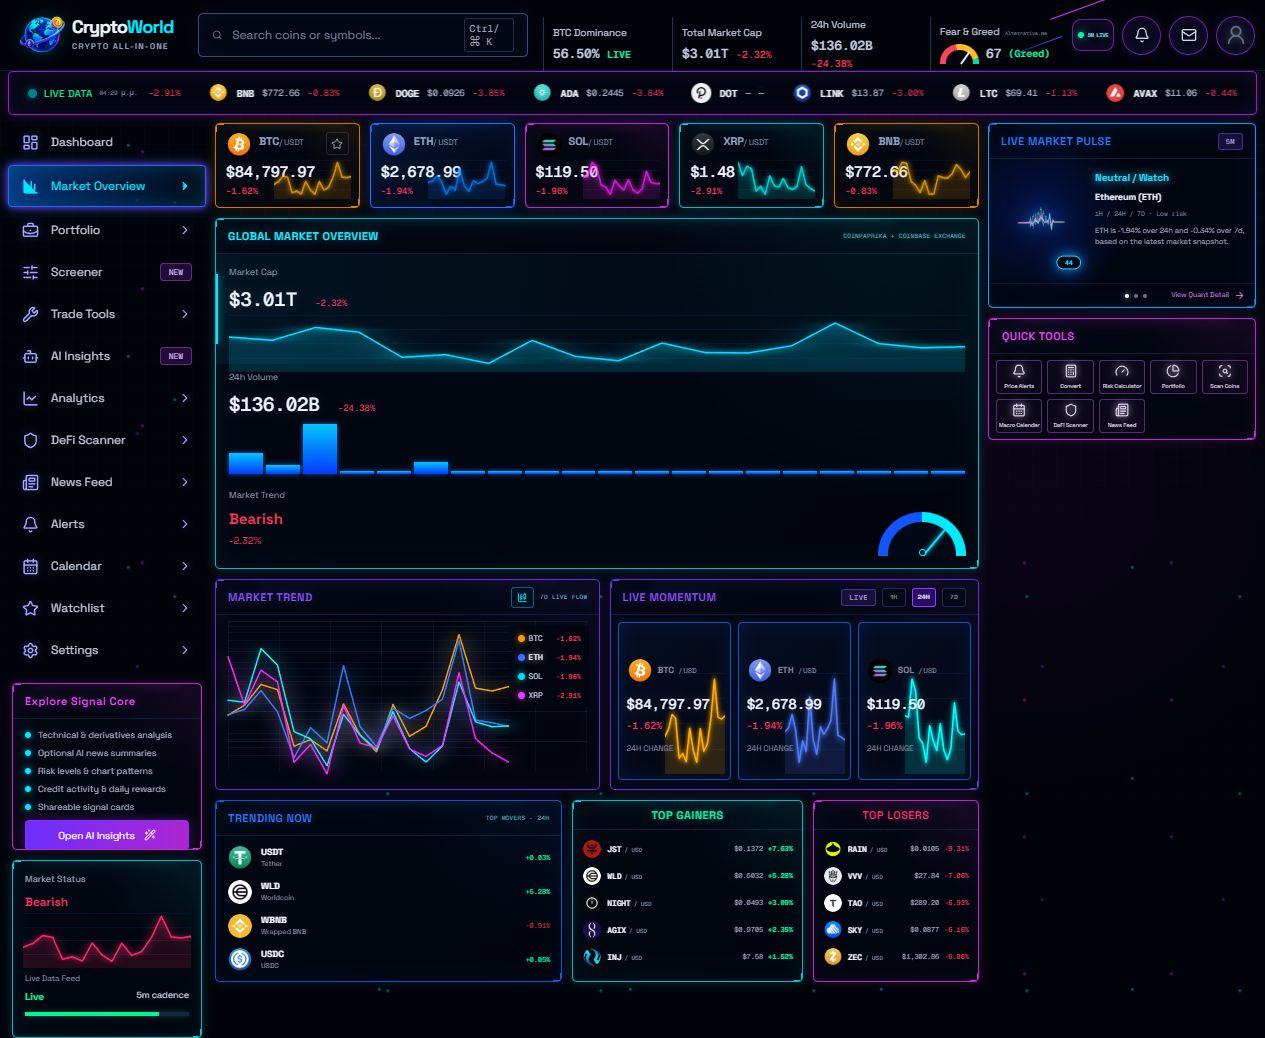
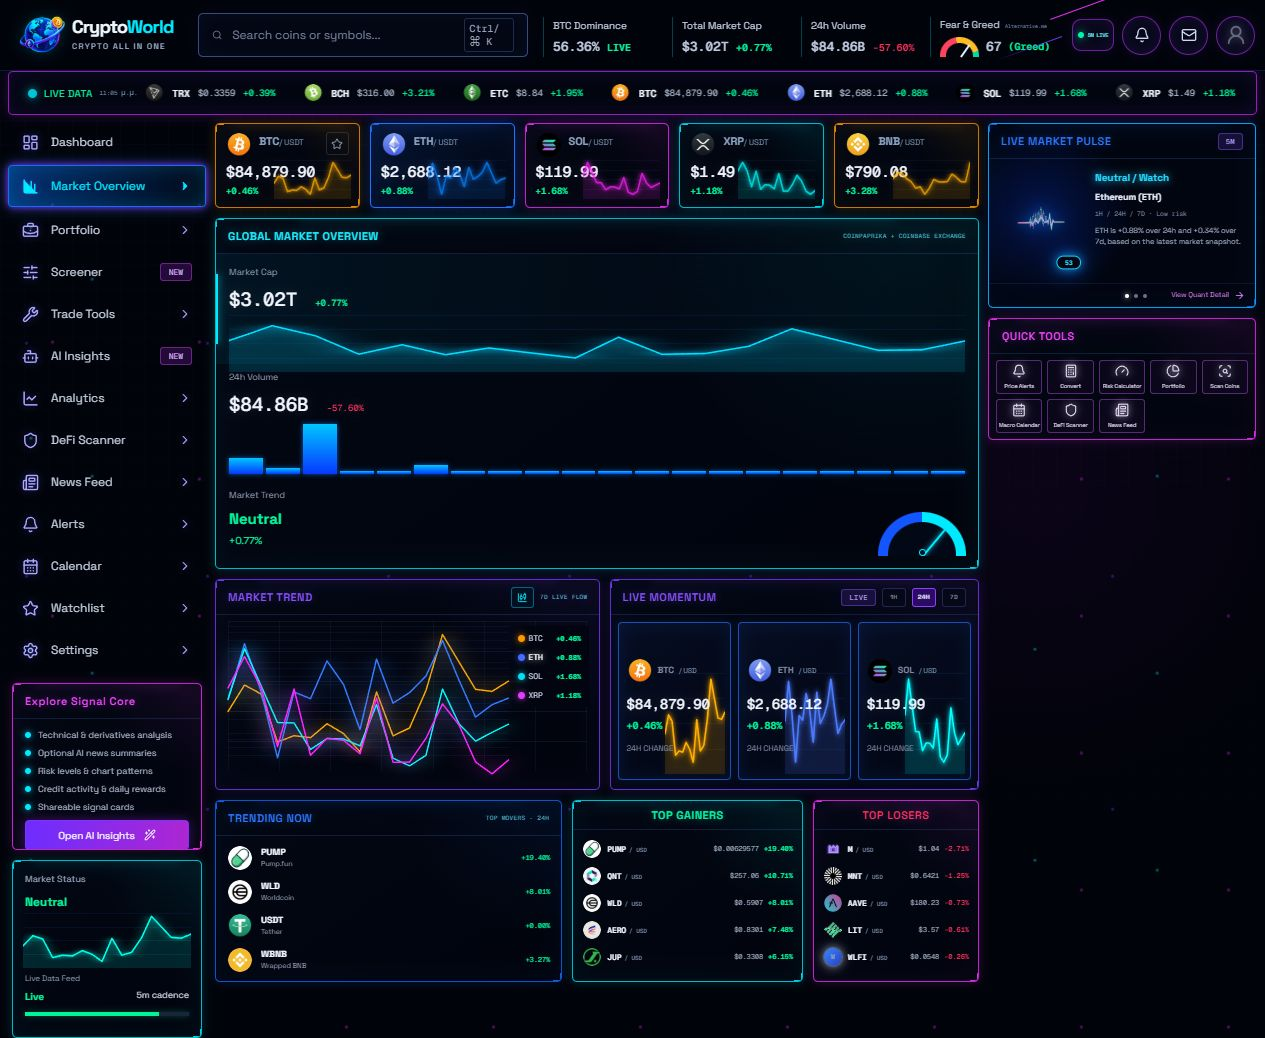
Use Crypto all in one tagline without hyphens

diff --git a/app/layout.tsx b/app/layout.tsx
@@ -25,7 +25,7 @@ export async function generateMetadata(): Promise<Metadata> {
   const origin = `${protocol}://${host}`;
 
   return {
-    title: "CryptoWorld — All-in-One Crypto Intelligence",
+    title: "CryptoWorld — Crypto All In One",
     description:
       "Live crypto market data, interactive analytics and optional AI-assisted signals. A full-stack portfolio project.",
     icons: {
@@ -34,7 +34,7 @@ export async function generateMetadata(): Promise<Metadata> {
     },
     openGraph: {
       siteName: "CryptoWorld",
-      title: "CryptoWorld — All-in-One Crypto Intelligence",
+      title: "CryptoWorld — Crypto All In One",
       description: "Live market data, interactive charts and optional AI-assisted analysis.",
       images: [
         {
@@ -47,7 +47,7 @@ export async function generateMetadata(): Promise<Metadata> {
     },
     twitter: {
       card: "summary_large_image",
-      title: "CryptoWorld — All-in-One Crypto Intelligence",
+      title: "CryptoWorld — Crypto All In One",
       description: "Live market data, interactive charts and optional AI-assisted analysis.",
       images: [`${origin}/og.png`],
     },

diff --git a/docs/showcase/index.html b/docs/showcase/index.html
@@ -56,7 +56,7 @@
       <section class="hero wrap" aria-labelledby="hero-heading">
         <div class="hero-copy">
           <p class="eyebrow">
-            <span class="status-dot" aria-hidden="true"></span> Full-stack portfolio project
+            <span class="status-dot" aria-hidden="true"></span> Crypto all in one
           </p>
           <h1 id="hero-heading">Market intelligence.<br /><span>One connected world.</span></h1>
           <p class="hero-description">
@@ -257,7 +257,7 @@
                   src="./assets/mobile.jpg"
                   alt="Full-page mobile capture of CryptoWorld showing the compact header and stacked dashboard panels"
                   width="375"
-                  height="2354"
+                  height="2228"
                   loading="lazy"
                 />
               </a>

diff --git a/app/page.tsx b/app/page.tsx
@@ -373,7 +373,7 @@ function CryptoWorldBrand({ onClick }: { onClick: () => void }) {
         <strong>
           Crypto<span>World</span>
         </strong>
-        <small>CRYPTO ALL-IN-ONE</small>
+        <small>CRYPTO ALL IN ONE</small>
       </span>
     </button>
   );

diff --git a/README.md b/README.md
@@ -6,7 +6,7 @@
 
 [![Quality checks](https://github.com/ManosTsagkos/CryptoWorld/actions/workflows/quality.yml/badge.svg)](https://github.com/ManosTsagkos/CryptoWorld/actions/workflows/quality.yml)
 
-A crypto dashboard with live market data, interactive charts and a signal-analysis engine. It brings prices, technical indicators, derivatives data, DeFi and news into one workspace. AI news summaries are optional; the app runs without API keys or paid services.
+Crypto all in one: a dashboard with live market data, interactive charts and a signal-analysis engine. It brings prices, technical indicators, derivatives data, DeFi and news into one workspace. AI news summaries are optional; the app runs without API keys or paid services.
 
 [Portfolio preview](https://manostsagkos.github.io/CryptoWorld/) · [Screenshots](#screenshots) · [Run interactive demo](https://codespaces.new/ManosTsagkos/CryptoWorld) · [Download source](https://github.com/ManosTsagkos/CryptoWorld/releases/latest) · [Architecture](docs/architecture.md)
 
